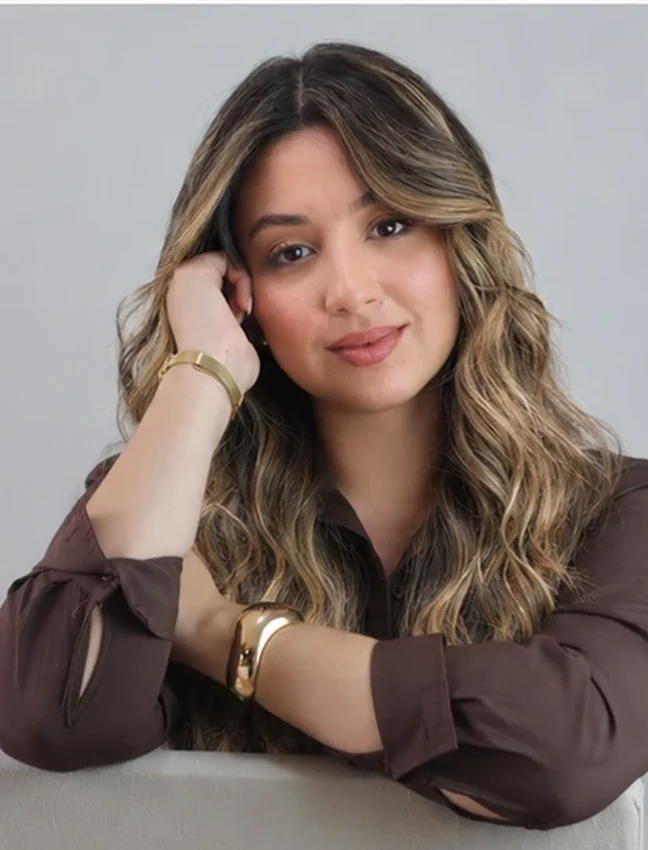
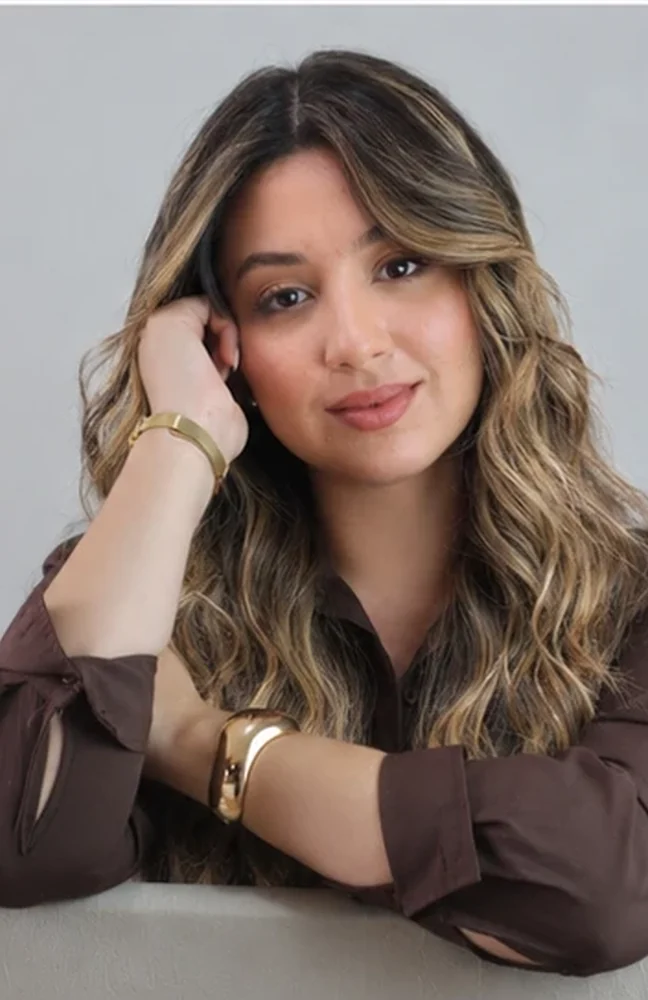
Encaixa a foto so dentro da janela da moldura, pro efeito de moldura real
A foto estava cobrindo a moldura inteira (648x850), do mesmo tamanho da
imagem da renda. Como o desenho da renda tem muitos buraquinhos finos
no proprio bordado, a foto aparecia vazando por tras deles, dando a
impressao de uma foto colada por cima da moldura, e nao de uma moldura
de verdade.

Agora a foto fica posicionada e recortada so atras da janela retangular
vazada (o retangulo interno da renda, medido em porcentagem sobre o
tamanho da moldura: 18,519% a 84,26% na horizontal e 11,647% a 88,941%
na vertical). Fora da janela, os buraquinhos da renda mostram o fundo
da secao, que e como uma renda de verdade se comporta em cima de uma
mesa, em vez de mostrar a foto.

Claude-Session: https://claude.ai/code/session_0198nECJP14G7iL7bmt3jAwE

diff --git a/index.html b/index.html
@@ -154,11 +154,14 @@ h1,h2,h3{margin:0;font-family:"Playfair Display",Georgia,serif;font-weight:700;l
 .midia--45{aspect-ratio:4/5}
 
 /* ===== moldura de renda decorativa (seção Sobre) =====
-   a proporção 648/850 é a da própria imagem da moldura: mantendo os dois
-   do mesmo tamanho, a "janela" vazada dela cai certinho sobre a foto. */
+   a proporção 648/850 é a da própria imagem da moldura. A foto não cobre
+   a moldura inteira: ela fica só atrás da janela vazada de renda (o
+   retângulo entre 18,519%/65,741% na horizontal e 11,647%/77,294% na
+   vertical), pra não vazar por baixo dos buraquinhos do desenho da renda
+   e o efeito ficar de moldura de verdade, não de foto colada por cima. */
 .foto-moldurada{position:relative;width:100%;max-width:400px;margin-inline:auto;aspect-ratio:648/850}
-.foto-moldurada .midia,.foto-moldurada .foto-real{position:absolute;inset:0;width:100%;height:100%}
-.foto-real{object-fit:cover;display:block}
+.foto-moldurada .midia{position:absolute;inset:0;width:100%;height:100%}
+.foto-real{position:absolute;left:18.519%;top:11.647%;width:65.741%;height:77.294%;object-fit:cover;display:block}
 .moldura-decorativa{position:absolute;inset:0;width:100%;height:100%;object-fit:fill;pointer-events:none;user-select:none}
 .midia--11{aspect-ratio:1/1}
 .midia .legenda{font-size:.76rem;letter-spacing:.16em;text-transform:uppercase;font-weight:500;text-shadow:0 1px 6px rgba(22,35,59,.5)}
@@ -363,7 +366,7 @@ h1,h2,h3{margin:0;font-family:"Playfair Display",Georgia,serif;font-weight:700;l
     <div class="env sobre-grade">
       <div class="revela">
         <div class="foto-moldurada">
-          <img src="foto-sobre.webp" alt="Paloma Ribeiro sorrindo, apoiada no encosto de uma cadeira, com blusa marrom e acessórios dourados" class="foto-real" width="648" height="850">
+          <img src="foto-sobre.webp" alt="Paloma Ribeiro sorrindo, apoiada no encosto de uma cadeira, com blusa marrom e acessórios dourados" class="foto-real" width="648" height="1000">
           <img src="moldura-sobre.png" alt="" class="moldura-decorativa" aria-hidden="true">
         </div>
       </div>
